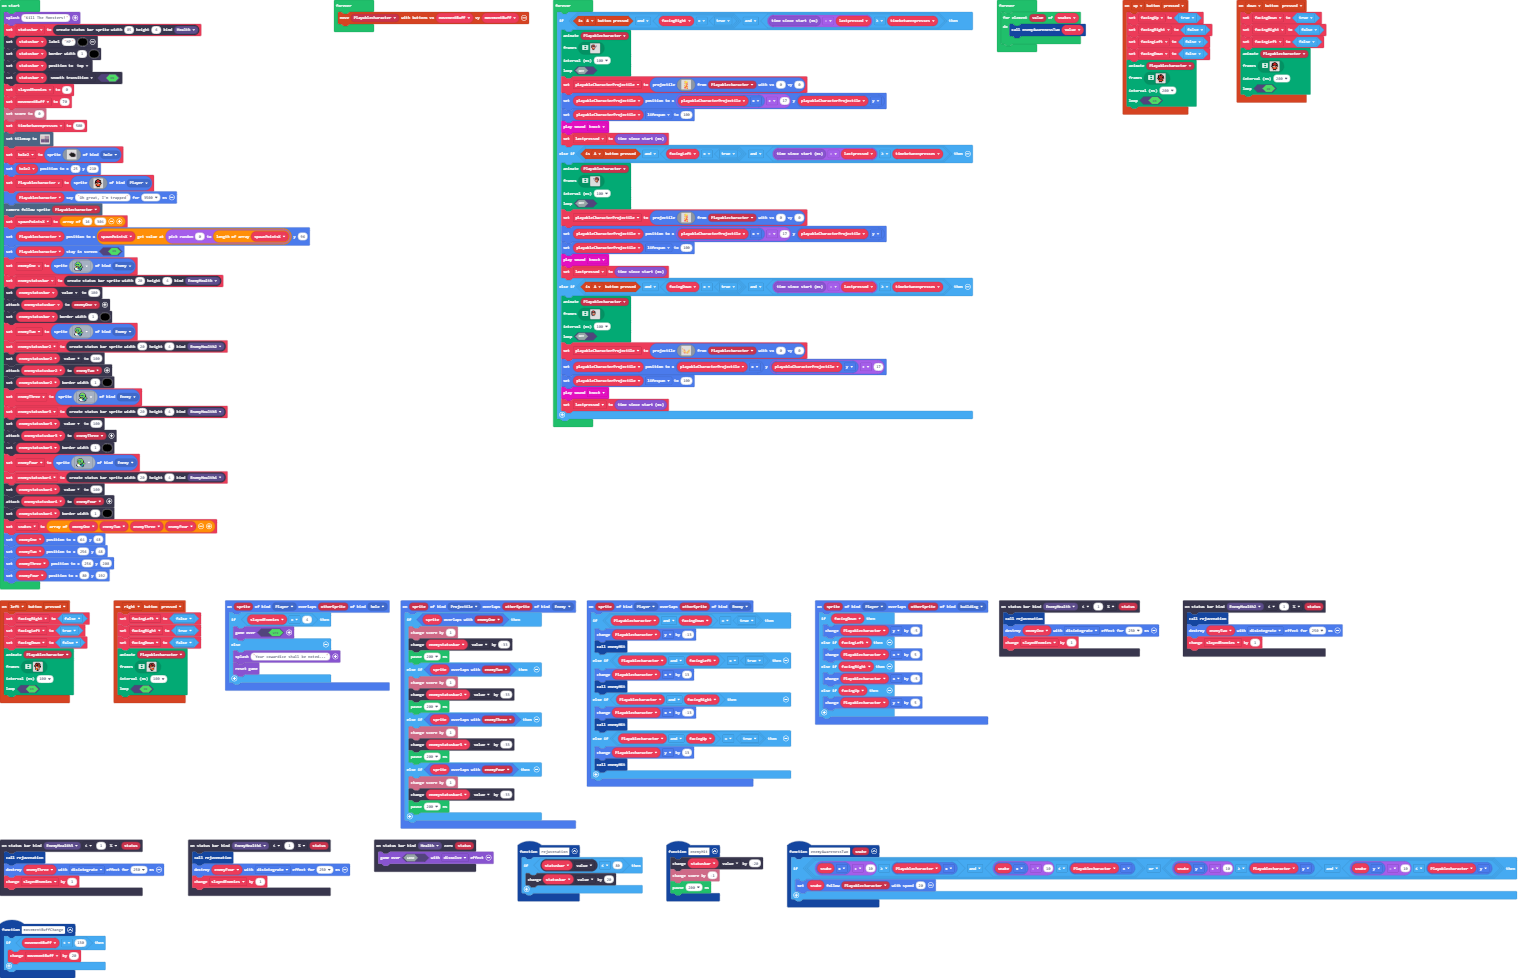
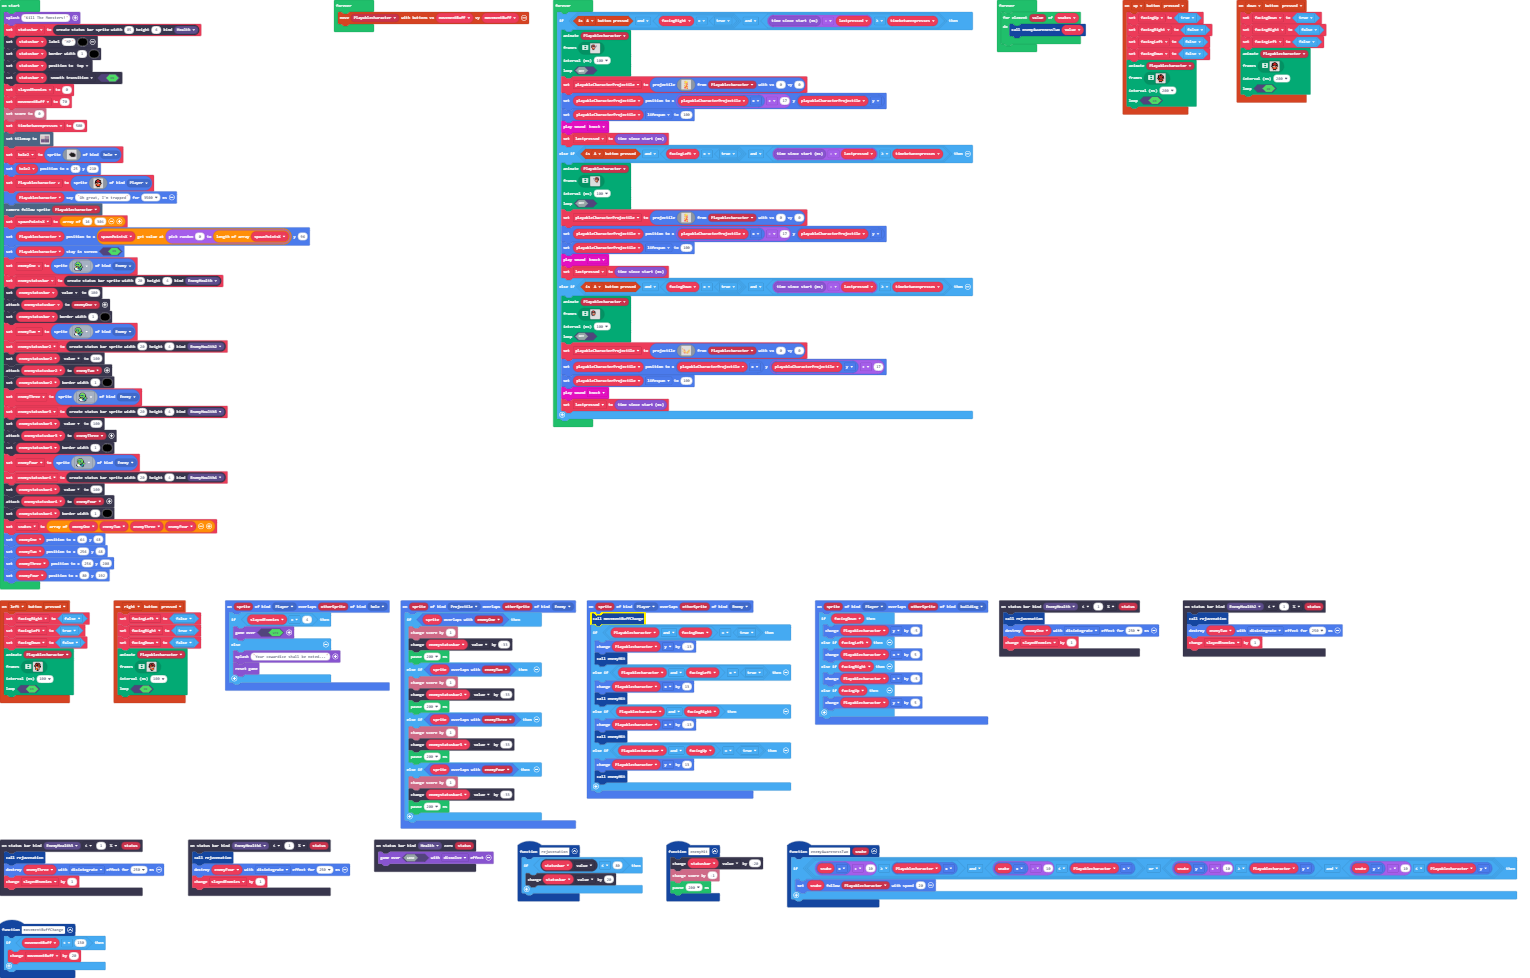
Update main.blocks, main.ts

Changed region(s): [[0.3686, 0.6135, 0.5222, 0.8282]]

diff --git a/main.ts b/main.ts
@@ -411,6 +411,7 @@ statusbars.onStatusReached(StatusBarKind.EnemyHealth, statusbars.StatusCompariso
     slayedEnemies += 1
 })
 sprites.onOverlap(SpriteKind.Player, SpriteKind.Enemy, function (sprite, otherSprite) {
+    movementBuffChange()
     if ((Playablecharacter && facingDown) == true) {
         Playablecharacter.y += -13
         enemyHit()
